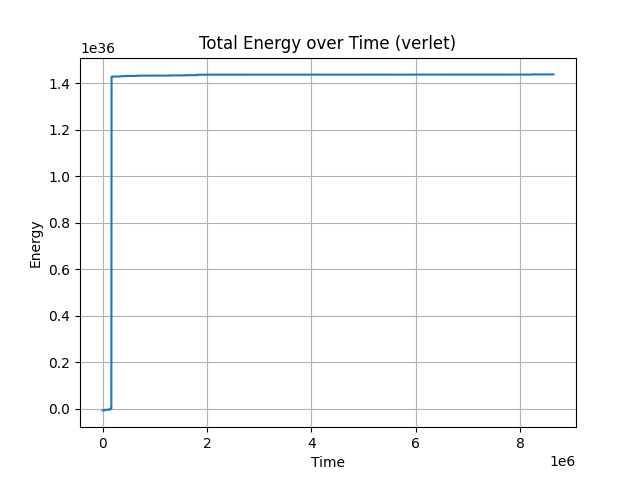
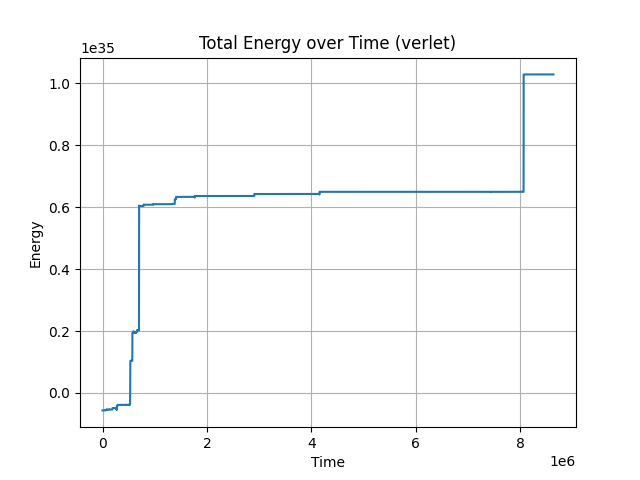
data updation for verlet integrator and body.py

diff --git a/body.py b/body.py
@@ -7,9 +7,9 @@ def bodies(N):
 
     for i in range(N):
         # Random Position (Scale 1e9)
-        px = np.random.uniform(-1e9, 1e9)
-        py = np.random.uniform(-1e9, 1e9)
-        pz = np.random.uniform(-1e9, 1e9)
+        px = np.random.uniform(-1.6e9, 1.6e9)
+        py = np.random.uniform(-1.6e9, 1.6e9)
+        pz = np.random.uniform(-1.6e9, 1.6e9)
         # Giving Random velocities (Scale 500)
         vx = np.random.uniform(-500, 500)
         vy = np.random.uniform(-500, 500)
